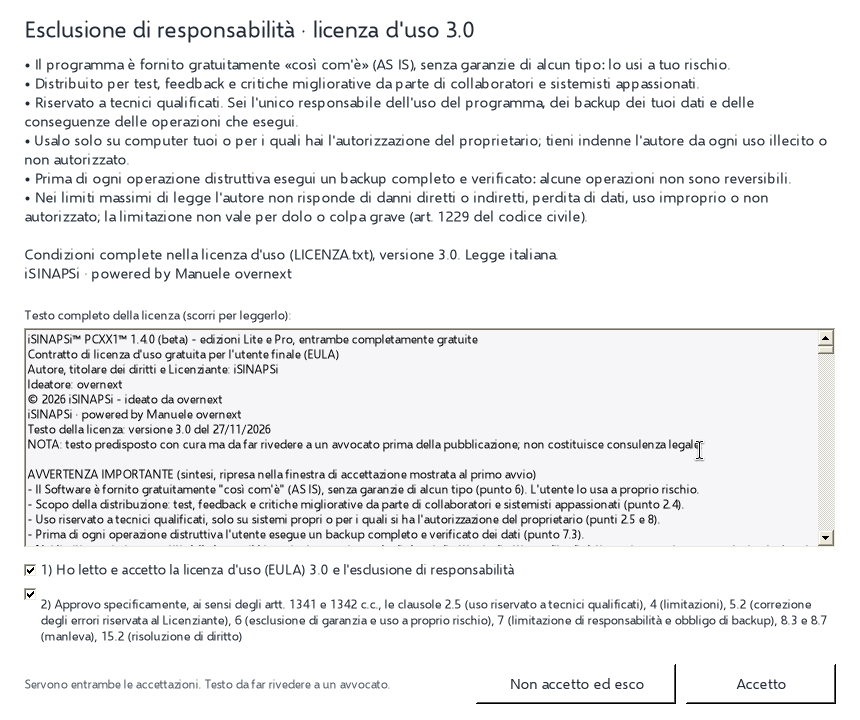
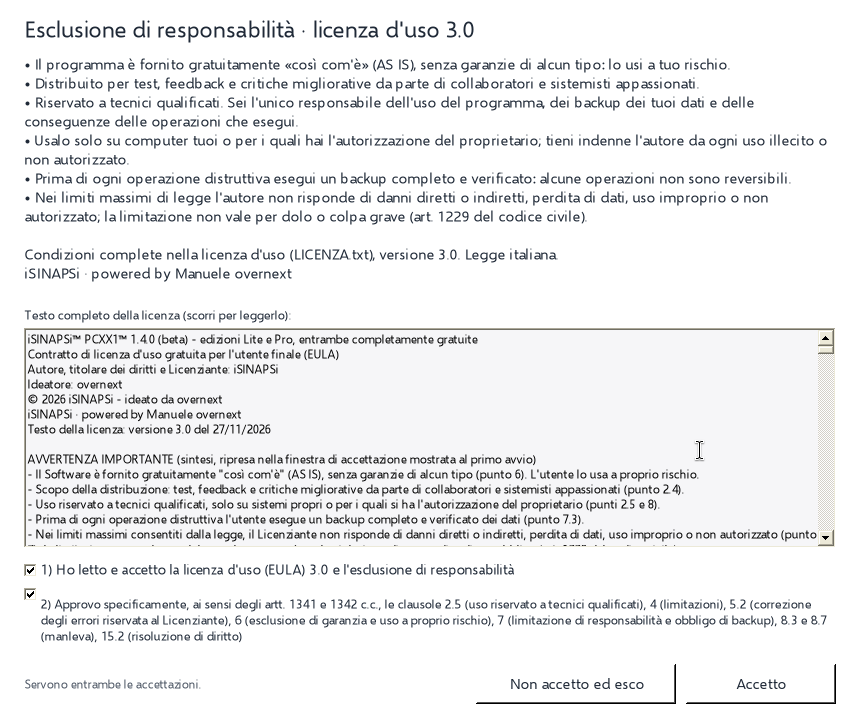
iSINAPSi PCXX1 1.4.0-beta12 – licenza 3.0 e modulo senza note di revisione

Changed region(s): [[0.0302, 0.6111, 0.9372, 0.7639], [0.2419, 0.9472, 0.4535, 0.9778]]

diff --git a/README.md b/README.md
@@ -4,7 +4,7 @@
   <img src="docs/img/logo-pro.png" alt="Logo iSINAPSi PCXX1 Pro" width="104">
 </p>
 
-<h1 align="center">iSINAPSi™ PCXX1™ 1.4.0-beta11</h1>
+<h1 align="center">iSINAPSi™ PCXX1™ 1.4.0-beta12</h1>
 <p align="center"><b>Il coltellino svizzero per Windows</b> · due edizioni, <b>Lite</b> e <b>Pro</b>, <b>completamente gratuite</b><br>
 <sub>iSINAPSi · powered by Manuele overnext</sub></p>
 
@@ -23,10 +23,10 @@ Un'unica finestra in italiano con gli strumenti che un sistemista usa ogni giorn
 - **Export** CSV, HTML e PDF scritti direttamente nel file scelto; mai aperti in automatico («Apri file» / «Apri cartella» solo su clic).
 - **Exe .NET normale**, non compresso, senza autoestrazione. La Lite gira senza privilegi di amministratore.
 
-## Novità della 1.4.0-beta11
-- **Modulo di autorizzazione all'intervento** da far firmare al cliente (Lite e Pro): PDF, HTML stampabile e CSV con i dati letti dal PC (produttore, modello, numero di serie, sistema operativo, data e ora), operazioni autorizzate, dichiarazione di backup o rinuncia espressa, responsabilità e manleva entro l'art. 1229 c.c., informativa GDPR (art. 13), allegato facoltativo di nomina a responsabile del trattamento (art. 28) e sezione facoltativa NIS2 (D.Lgs. 138/2024), registro della sessione allegato con impronta SHA-256, firme. **Il modulo è un modello da sottoporre a revisione legale prima dell'uso e non costituisce consulenza legale.**
+## Novità della 1.4.0 (beta11 e beta12)
+- **Modulo di autorizzazione all'intervento** da far firmare al cliente (Lite e Pro): PDF, HTML stampabile e CSV con i dati letti dal PC (produttore, modello, numero di serie, sistema operativo, data e ora), operazioni autorizzate, dichiarazione di backup o rinuncia espressa, responsabilità e manleva entro l'art. 1229 c.c., informativa GDPR (art. 13), allegato facoltativo di nomina a responsabile del trattamento (art. 28) e sezione facoltativa NIS2 (D.Lgs. 138/2024), registro della sessione allegato con impronta SHA-256, firme.
 - **Personalizzazione**: campi facoltativi Azienda, Tecnico e Cliente nelle intestazioni di tutti gli export; pulsante «Nuovo cliente». Se vuoti, nessuna riga in più.
-- **Licenza 3.0** con doppia accettazione al primo avvio.
+- **Licenza 3.0** con doppia accettazione al primo avvio; nella beta12 il testo, verificato da un professionista, non contiene più note di revisione.
 - **Automazione** (Pro): ogni ricetta mostra descrizione, livello di rischio (sola lettura / modifica / distruttiva) e passi eseguiti; guida integrata «Come creare un'automazione».
 
 <p align="center"><img src="docs/img/report-campi-e-modulo.png" alt="Pagina Audit e report con i campi Azienda, Tecnico, Cliente e il modulo di autorizzazione" width="860"></p>
@@ -36,16 +36,16 @@ Un'unica finestra in italiano con gli strumenti che un sistemista usa ogni giorn
 Elenco completo delle modifiche: [CHANGELOG](CHANGELOG.md).
 
 ## Download
-Dalla pagina **Releases** (pre-release 1.4.0-beta11):
+Dalla pagina **Releases** (pre-release 1.4.0-beta12):
 
 | File | Edizione | Tipo |
 |---|---|---|
-| `iSINAPSi-PCXX1-Lite-Portable-1.4.0-beta11.zip` | Lite | portable (zip, distribuzione principale) |
-| `iSINAPSi-PCXX1-Lite-Setup-1.4.0-beta11.exe` | Lite | installazione classica |
-| `iSINAPSi-PCXX1-Pro-Portable-1.4.0-beta11.zip` | Pro | portable (zip, distribuzione principale) |
-| `iSINAPSi-PCXX1-Pro-Setup-1.4.0-beta11.exe` | Pro | installazione classica |
+| `iSINAPSi-PCXX1-Lite-Portable-1.4.0-beta12.zip` | Lite | portable (zip, distribuzione principale) |
+| `iSINAPSi-PCXX1-Lite-Setup-1.4.0-beta12.exe` | Lite | installazione classica |
+| `iSINAPSi-PCXX1-Pro-Portable-1.4.0-beta12.zip` | Pro | portable (zip, distribuzione principale) |
+| `iSINAPSi-PCXX1-Pro-Setup-1.4.0-beta12.exe` | Pro | installazione classica |
 
-I file **non sono firmati digitalmente**: verifica le impronte con [SHA256SUMS-1.4.0-beta11.txt](SHA256SUMS-1.4.0-beta11.txt). In PowerShell: `Get-FileHash .\nomefile -Algorithm SHA256`.
+I file **non sono firmati digitalmente**: verifica le impronte con [SHA256SUMS-1.4.0-beta12.txt](SHA256SUMS-1.4.0-beta12.txt). In PowerShell: `Get-FileHash .\nomefile -Algorithm SHA256`.
 
 ## Requisiti
 Windows 11 x64 o Windows 10 1607 o successivo, con .NET Framework 4.8. La Pro chiede i privilegi di amministratore (UAC); la Lite no.

diff --git a/CHANGELOG.md b/CHANGELOG.md
@@ -1,6 +1,16 @@
 # Changelog
 Tutte le modifiche rilevanti di iSINAPSi™ PCXX1™. Formato ispirato a [Keep a Changelog](https://keepachangelog.com/it-IT/1.1.0/); versioni secondo [Semantic Versioning](https://semver.org/lang/it/).
 
+## [1.4.0-beta12] – 2026-11-28 · non pubblicata
+
+### Licenza e modulo di autorizzazione
+- Licenza 3.0: tolta la nota «testo da far rivedere a un avvocato prima della pubblicazione» (in testa e dopo l'approvazione specifica) e, al punto 12.9, l'inciso «da sottoporre a revisione legale» riferito al modulo, dopo la verifica di un professionista sul testo pubblicato con la beta11. Nessun'altra modifica alle clausole: la versione resta 3.0 e chi l'ha già accettata non deve accettarla di nuovo.
+- Finestra del primo avvio: tolta la frase «Testo da far rivedere a un avvocato».
+- Modulo di autorizzazione all'intervento (PDF, HTML, CSV e modulo vuoto): tolta la dicitura «modello da sottoporre a revisione legale»; restano firma fissa, numero di pagina e contenuti invariati.
+
+### Test
+- 327 test automatici su Linux; i test di licenza e modulo verificano ora che le due note non compaiano più.
+
 ## [1.4.0-beta11] – 2026-11-27 · non pubblicata
 
 ### Modulo di autorizzazione all'intervento (Lite e Pro)
